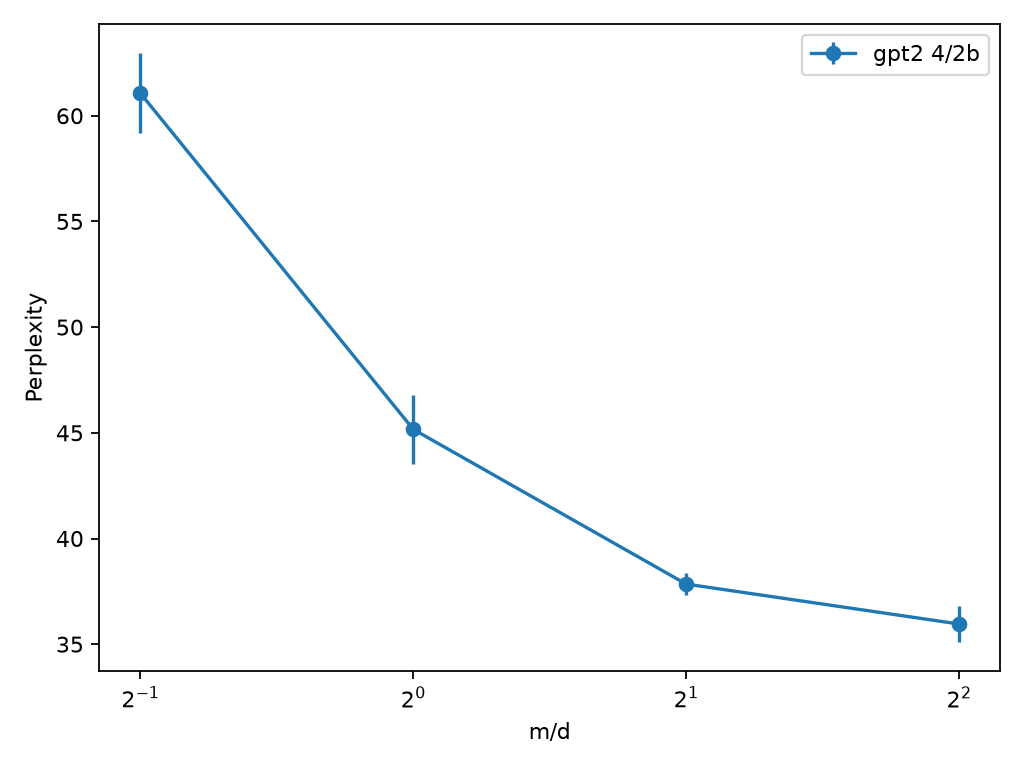
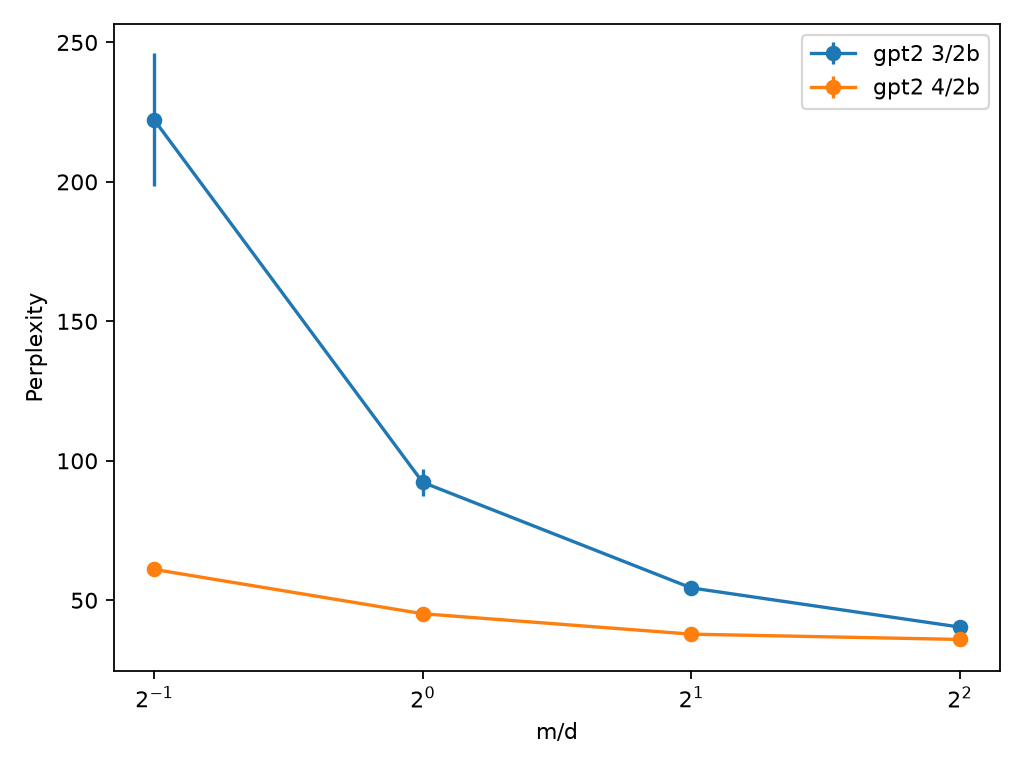
Confirm m-scaling at aggressive key quantization

diff --git a/scripts/analyze.py b/scripts/analyze.py
@@ -14,9 +14,17 @@ def main():
     out=[]
     for key,rs in sorted(groups.items()):
         rec=dict(zip(('model','key_bits','value_bits','m_over_d'),key)); rec['n_seeds']=len(rs); rec['m']=rs[0]['m']
-        for metric in ('perplexity','ppl_delta_fp','attention_logit_mae','attention_logit_rmse','qjl_residual_rmse','attention_kl_fp_to_quantized','runtime_s','key_storage_bytes_per_key'):
+        for metric in ('perplexity','ppl_delta_fp','attention_logit_mae','attention_logit_rmse','qjl_residual_rmse','attention_kl_fp_to_quantized','runtime_s','qjl_sketch_bytes_per_key','key_storage_bytes_per_key'):
             vals=np.array([r[metric] for r in rs]); rec[metric+'_mean']=float(vals.mean()); rec[metric+'_std']=float(vals.std(ddof=1)) if len(vals)>1 else 0.
         out.append(rec)
+    for label in sorted(set((r['model'],r['key_bits'],r['value_bits']) for r in out)):
+        series=sorted((r for r in out if (r['model'],r['key_bits'],r['value_bits'])==label),key=lambda r:r['m_over_d'])
+        for previous,current in zip(series,series[1:]):
+            added=current['qjl_sketch_bytes_per_key_mean']-previous['qjl_sketch_bytes_per_key_mean']
+            gain=previous['perplexity_mean']-current['perplexity_mean']
+            current['previous_m_over_d']=previous['m_over_d']; current['added_qjl_bytes']=added
+            current['perplexity_gain_from_previous']=gain; current['perplexity_gain_per_added_qjl_byte']=gain/added
+        series[0].update(previous_m_over_d='',added_qjl_bytes='',perplexity_gain_from_previous='',perplexity_gain_per_added_qjl_byte='')
     OUT.mkdir(parents=True,exist_ok=True); (OUT/'summary.json').write_text(json.dumps(out,indent=2)+'\n')
     cols=list(out[0]); (OUT/'summary.csv').write_text(','.join(cols)+'\n'+'\n'.join(','.join(str(r[c]) for c in cols) for r in out)+'\n')
     try:
@@ -29,5 +37,15 @@ def main():
             rs=[r for r in out if (r['model'],r['key_bits'],r['value_bits'])==label]; rs.sort(key=lambda r:r['m_over_d'])
             ax.errorbar([r['m_over_d'] for r in rs],[r[metric] for r in rs],yerr=[r.get(metric.replace('_mean','_std'),0) for r in rs],marker='o',label=f'{label[0]} {label[1]}/{label[2]}b')
         ax.set_xscale('log',base=2); ax.set_xlabel('m/d'); ax.set_ylabel(title); ax.legend(); fig.tight_layout(); fig.savefig(PLOTS/(name+'.png'),dpi=160); plt.close(fig)
+    fig,ax=plt.subplots()
+    for label in sorted(set((r['model'],r['key_bits'],r['value_bits']) for r in out)):
+        rs=sorted((r for r in out if (r['model'],r['key_bits'],r['value_bits'])==label),key=lambda r:r['qjl_sketch_bytes_per_key_mean'])
+        ax.plot([r['qjl_sketch_bytes_per_key_mean'] for r in rs],[r['perplexity_mean'] for r in rs],marker='o',label=f'{label[0]} {label[1]}/{label[2]}b')
+    ax.set_xlabel('QJL bytes per key (packed signs + residual norm)'); ax.set_ylabel('Perplexity'); ax.legend(); fig.tight_layout(); fig.savefig(PLOTS/'quality_vs_qjl_storage.png',dpi=160); plt.close(fig)
+    fig,ax=plt.subplots()
+    for label in sorted(set((r['model'],r['key_bits'],r['value_bits']) for r in rows)):
+        rs=[r for r in rows if (r['model'],r['key_bits'],r['value_bits'])==label]
+        ax.scatter([r['m_over_d'] for r in rs],[r['perplexity'] for r in rs],alpha=.75,label=f'{label[0]} {label[1]}/{label[2]}b')
+    ax.set_xscale('log',base=2); ax.set_xlabel('m/d'); ax.set_ylabel('Individual-seed perplexity'); ax.legend(); fig.tight_layout(); fig.savefig(PLOTS/'seed_variance.png',dpi=160); plt.close(fig)
     print(f'wrote {len(out)} summary groups to {OUT}')
 if __name__=='__main__': main()
